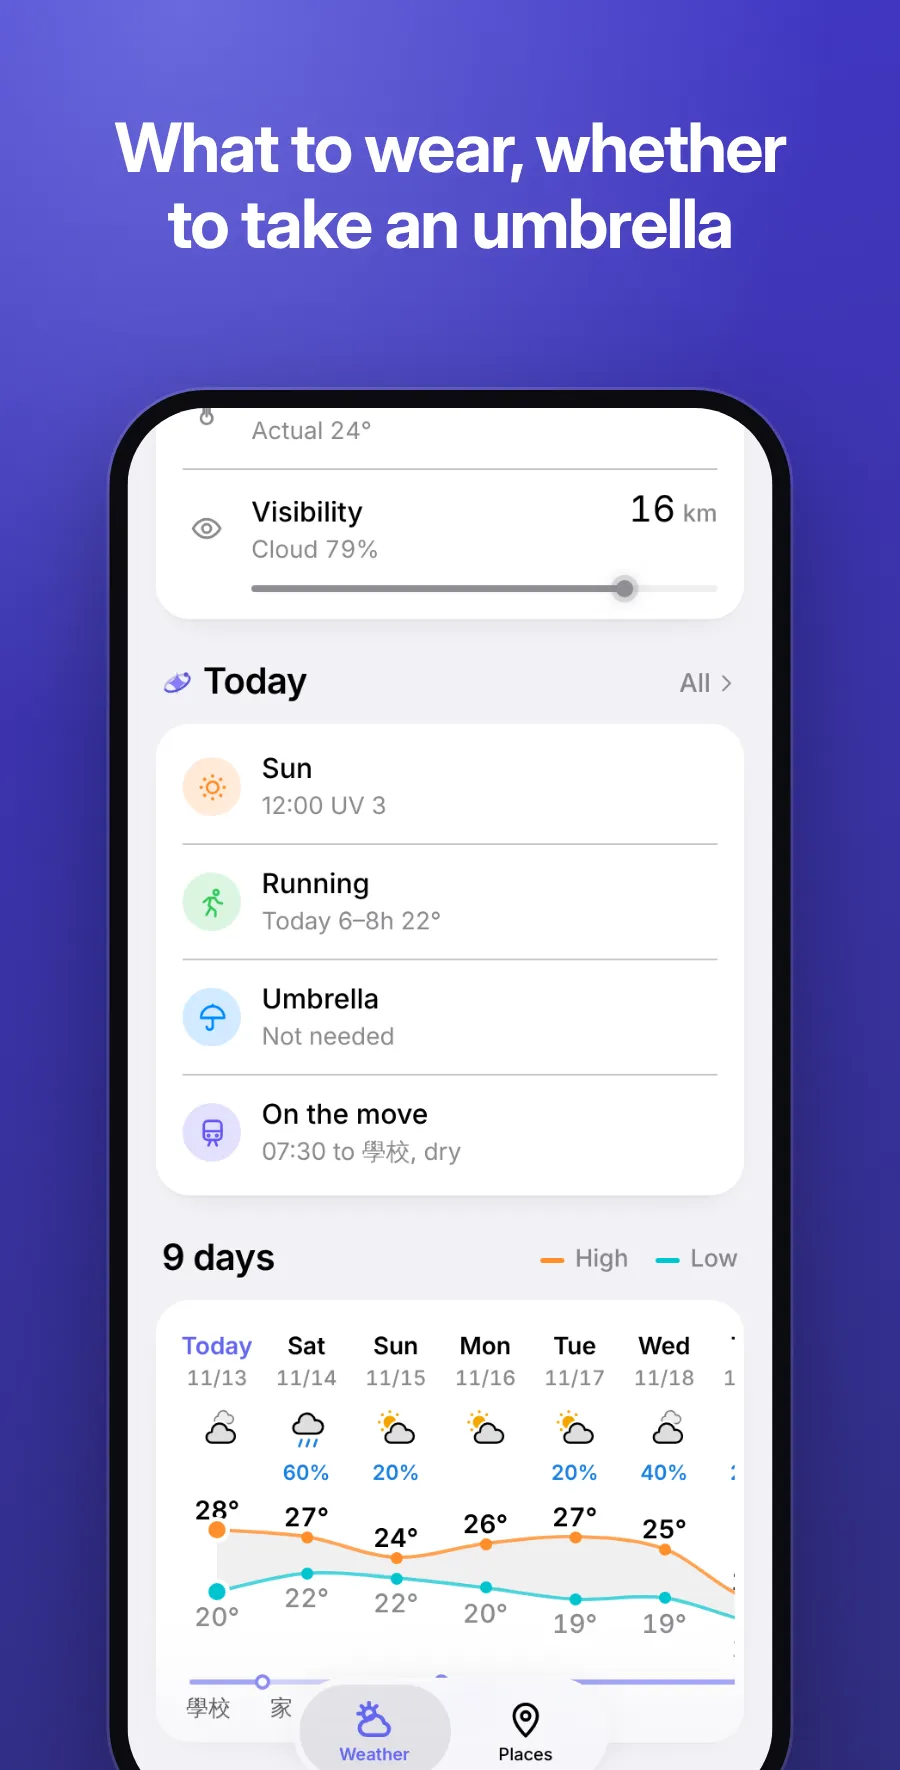
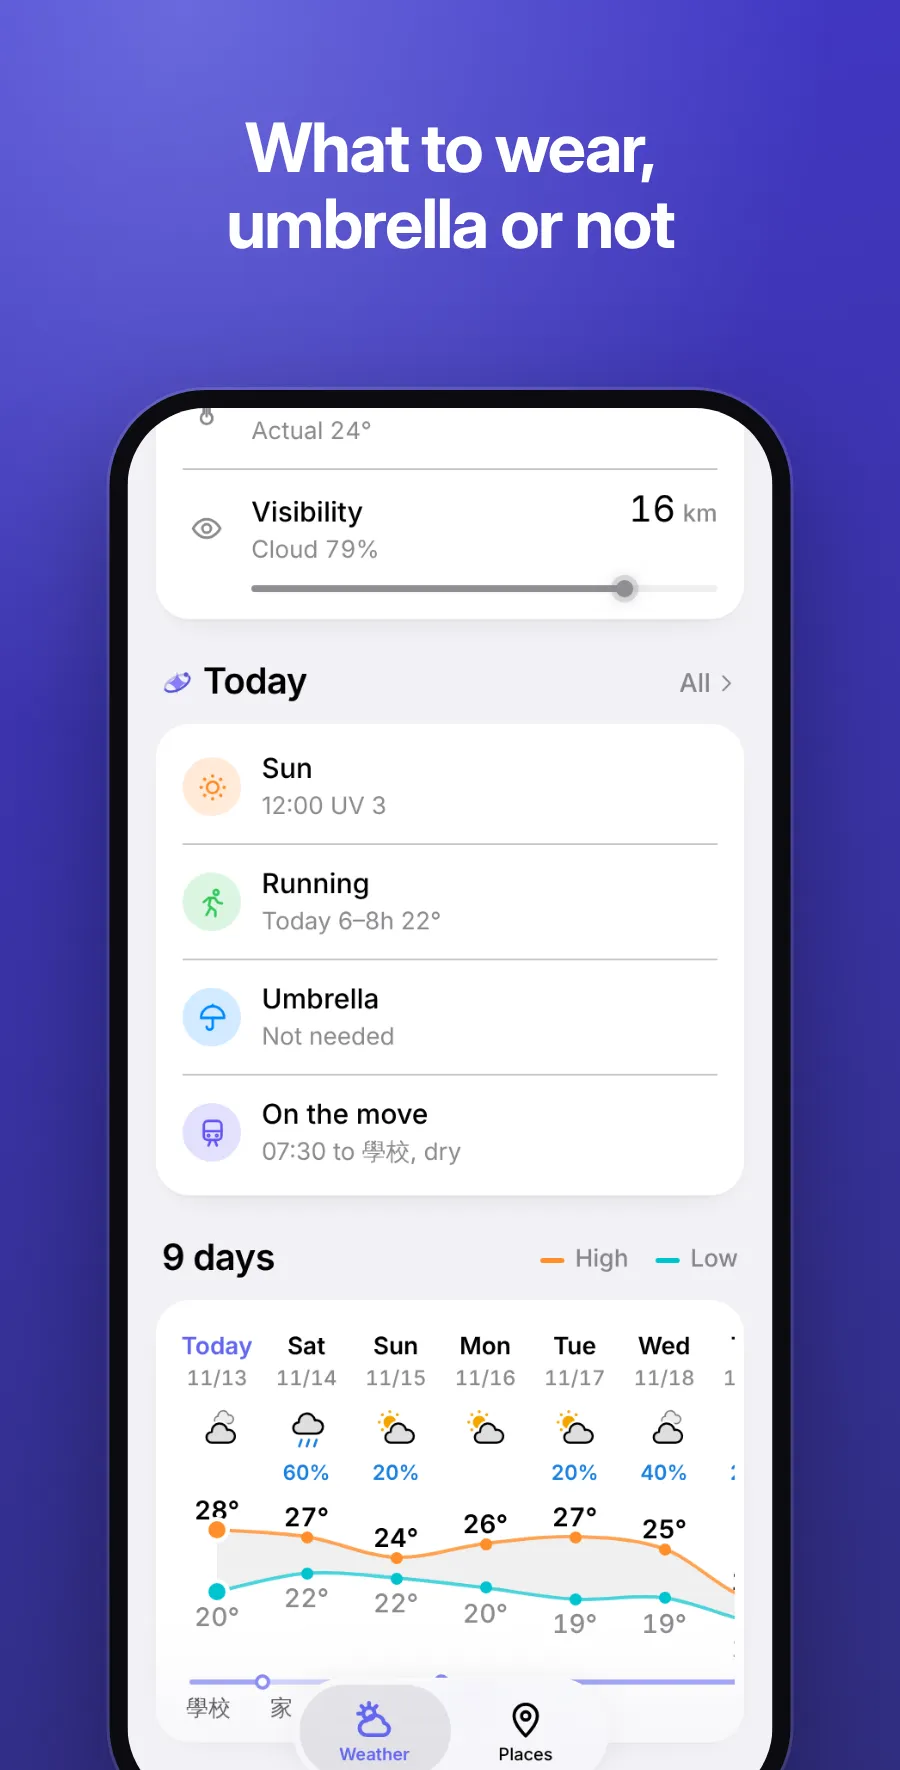
README screenshots: shorter English headlines
Claude-Session: https://claude.ai/code/session_01DckgWMZUMTVhMRS1sMRz4M

Changed region(s): [[0.1244, 0.0621, 0.8711, 0.1554]]

diff --git a/README.md b/README.md
@@ -23,7 +23,7 @@ One forecast for where you are and the places you pin, down to the township. Par
 
 <p align="center">
   <img src="docs/screenshots/weather-4.webp" width="30%" alt="Every hour's temperature and rain">
-  <img src="docs/screenshots/weather-5.webp" width="30%" alt="What to wear, whether to take an umbrella">
+  <img src="docs/screenshots/weather-5.webp" width="30%" alt="What to wear, umbrella or not">
   <img src="docs/screenshots/weather-6.webp" width="30%" alt="Home, school, every place you keep">
 </p>
 
